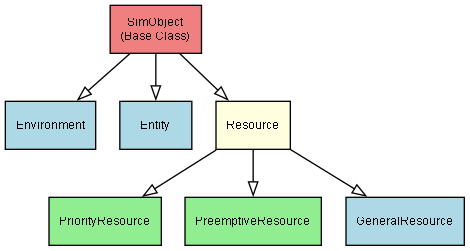
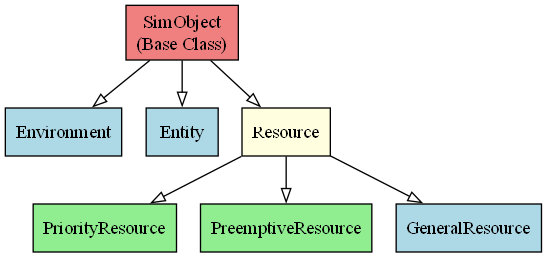
Revert font sizes to original and set correct diagram widths: architecture 100%, classes 60%, workflow 30%

Changed region(s): [[0.0, 0.0, 1.0, 1.0]]

diff --git a/docs/source/api_reference/architecture.rst b/docs/source/api_reference/architecture.rst
@@ -14,7 +14,7 @@ The following diagram shows the core components of SimPM and how they interact:
 .. image:: ../_visualizations/simpm_architecture.svg
    :alt: SimPM Architecture Diagram
    :align: center
-   :width: 45%
+   :width: 100%
 
 **Key Components:**
 
@@ -36,7 +36,7 @@ The following diagram shows the relationship between SimPM's main classes:
 .. image:: ../_visualizations/simpm_classes.svg
    :alt: SimPM Class Hierarchy Diagram
    :align: center
-   :width: 40%
+   :width: 60%
 
 **Class Descriptions:**
 
@@ -56,7 +56,7 @@ The typical workflow for creating and running a SimPM simulation:
 .. image:: ../_visualizations/simpm_workflow.svg
    :alt: SimPM Simulation Workflow Diagram
    :align: center
-   :width: 50%
+   :width: 30%
 
 **Workflow Steps:**
 
